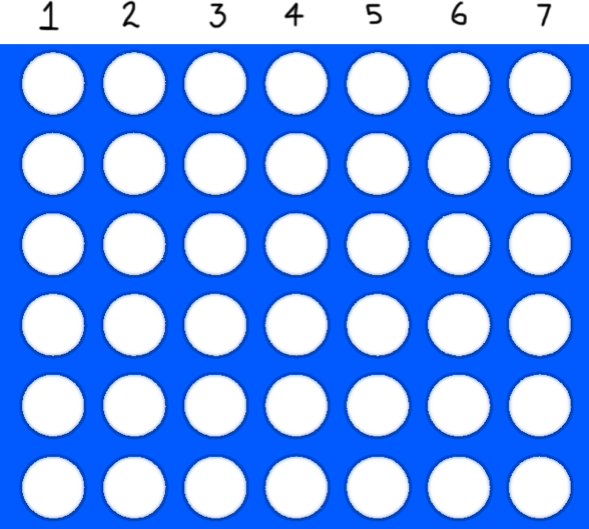
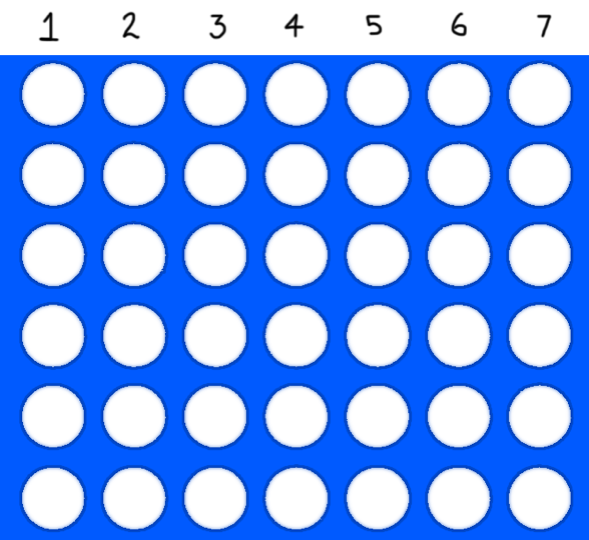
Update background

diff --git a/connect_four/config.py b/connect_four/config.py
@@ -1,5 +1,5 @@
 WIDTH  = 589
-HEIGHT = 529
+HEIGHT = 540
 
 PIECE_SIZE = 63
 
